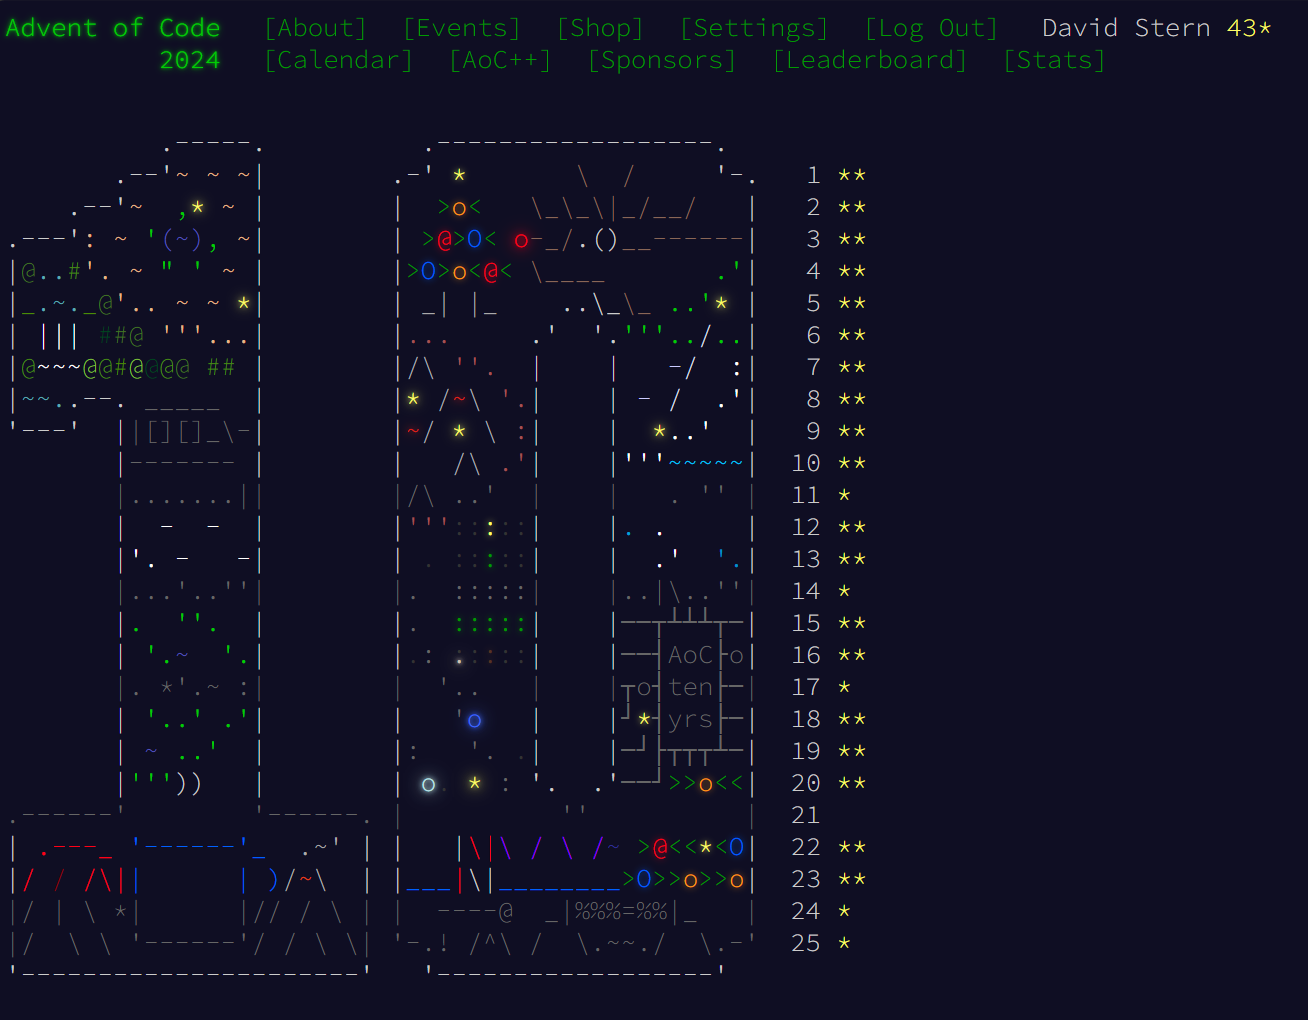
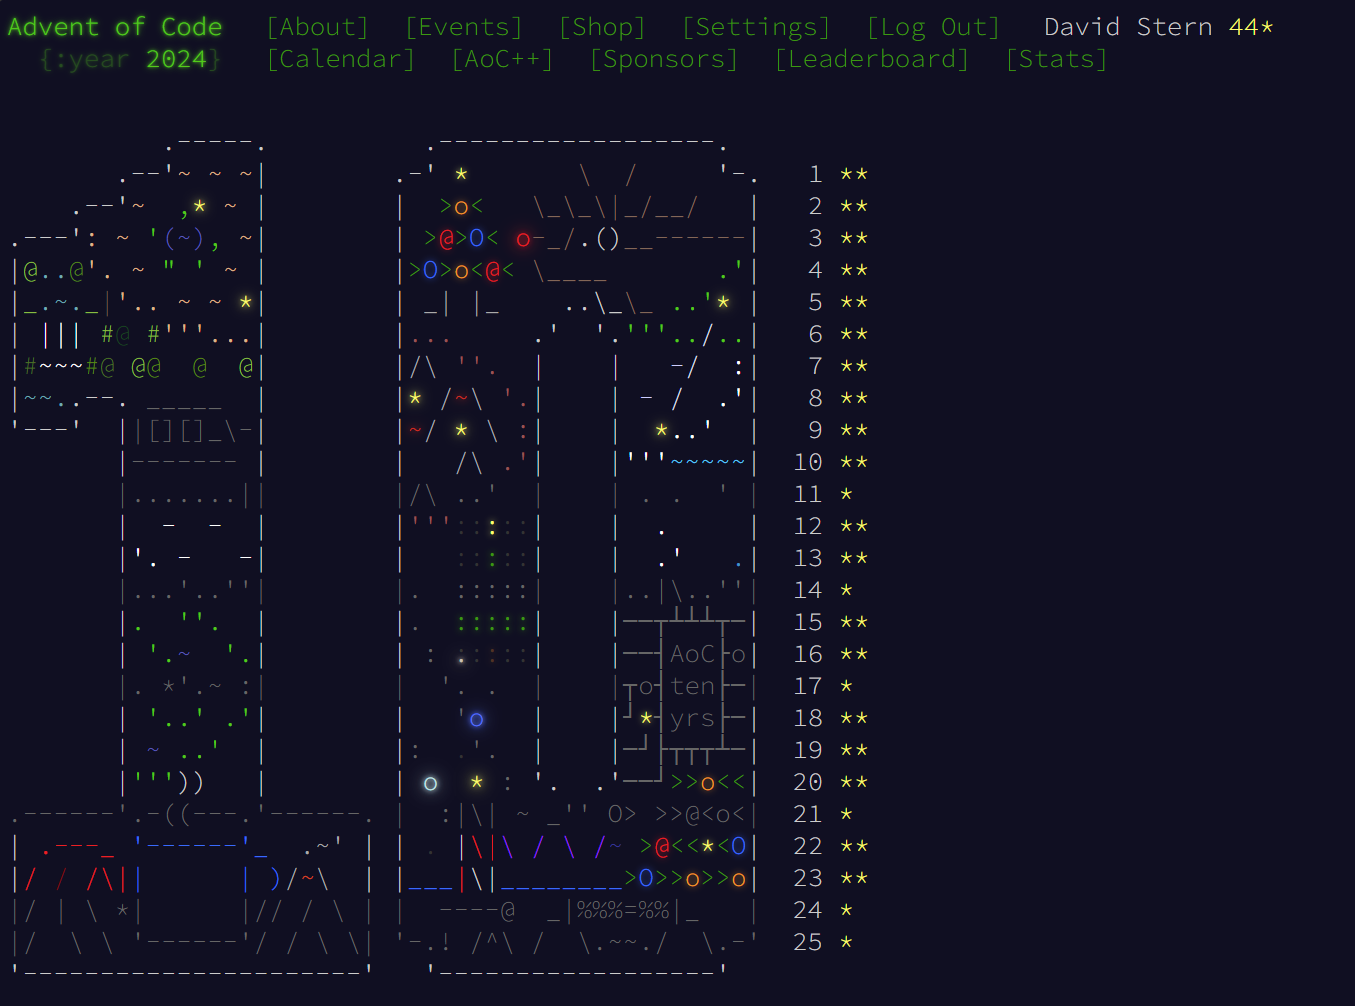
finished Day21 Part1

diff --git a/src/advent_solutions/day21.rs b/src/advent_solutions/day21.rs
@@ -15,10 +15,14 @@ const DIRECTIONAL_KEYPAD: [[char; 3]; 2] = [
     ['<', 'V', '>']
     ];
 
+///An Explorer collects possible paths to traverse
+/// between two points in either the `DIRECTIONAL_KEYPAD`
+/// or the `NUMERIC_KEYPAD`, ALWAYS IN TERMS of the DIRECTIONAL KEYPAD
 #[derive(Debug, Clone)]
 struct KeyPadExplorer {
     row: i64,
     col: i64,
+    ///The move_history in terms of directional key inputs
     move_history: Vec<char>,
     visited: HashSet<(i64, i64)>
 }
@@ -47,6 +51,9 @@ impl KeyPadExplorer {
         }
     }
 
+    ///To enforce the rule that empty spaces can never be traversed, 
+    /// returns `None` if either the current position if off the keypad
+    /// or in the forbidden empty space position.
     fn safe_read(&self, keypad: &[[char; 3]]) -> Option<char> {
         if let Some(row) = keypad.get(self.row as usize) {
             if let Some(symbol) = row.get(self.col as usize) {
@@ -72,7 +79,9 @@ impl KeyPadExplorer {
     }
 }
 
-fn translate_to_directional_inputs_from_start(starting_row: usize, starting_col: usize, keypad_in: &[[char; 3]]) -> HashMap<(char, char), Vec<String>> {
+///From the keypad position specified by `starting_row`, `starting_col`, collect all possible optimal paths between the start position
+/// and all other positions in the given `keypad_in`.
+fn translate_to_directional_inputs_from_start(starting_row: usize, starting_col: usize, keypad_in: &[[char; 3]]) -> HashMap<(char, char), Vec<String>> { 
     let mut decoded_moves: HashMap<(char, char), Vec<String>> = HashMap::new();
     let mut traversal_queue = VecDeque::new();
     let starting_explorer = KeyPadExplorer::new_empty(starting_row as i64, starting_col as i64);
@@ -83,7 +92,7 @@ fn translate_to_directional_inputs_from_start(starting_row: usize, starting_col:
             continue;
         }
         current_explorer.visit();
-        if let Some(current_symbol) = current_explorer.safe_read( keypad_in) {
+        if let Some(current_symbol) = current_explorer.safe_read(keypad_in) {
             decoded_moves.entry((starting_symbol, current_symbol)).or_default().push(current_explorer.move_history.clone().iter().collect::<String>());
             traversal_queue.extend(current_explorer.spawn_next());
 
@@ -92,6 +101,8 @@ fn translate_to_directional_inputs_from_start(starting_row: usize, starting_col:
     decoded_moves
 }
 
+///Find all possible optimal paths between any two valid positions
+/// on the passed in `keypad_in`, always in terms of the directional keypad inputs.
 fn translate_to_directional_inputs(keypad_in: &[[char; 3]]) -> HashMap<(char, char), Vec<String>> {
     let mut index = HashMap::new();
     for (row_number, row) in keypad_in.iter().enumerate() {
@@ -104,24 +115,31 @@ fn translate_to_directional_inputs(keypad_in: &[[char; 3]]) -> HashMap<(char, ch
     }
 
     for (_, move_history) in index.iter_mut() {
+        //As an optimization, we only consider possible paths that are of the length of the shortest
+        //possible path. 
         let shortest_path_length = move_history.iter().min_by_key(|path| path.len()).unwrap().len();
         move_history.retain(|path| path.len() == shortest_path_length);
         for move_option in move_history.iter_mut() {
+            //Append the A to each command because we need to press the button once we have reached
+            //the desired button
             move_option.push('A');
         }
     }
     index
 }
 
+///Represents a keypad input that must be translated into
+/// a directional keypad command (1 layer deeper in the robot control chain)
 #[derive(Debug)]
 enum KeyPadInput {
+    ///We are translating from a numerical keypad
     NumericalInput(String), 
+    ///We are translating from a directional keypad
     DirectionalInput(String), 
 }
 
 impl Display for KeyPadInput {
     fn fmt(&self, f: &mut std::fmt::Formatter<'_>) -> std::fmt::Result {
-
         let to_write = match self {
             Self::NumericalInput(to_decode) => to_decode,
             Self::DirectionalInput(to_decode) => to_decode
@@ -131,6 +149,8 @@ impl Display for KeyPadInput {
 }
 
 impl KeyPadInput {
+    ///Prepent the A symbol because all robots start pointing 
+    /// at the `A` button for either numerical or directional keypad.
     fn prepend_start(&mut self) {
         match self {
             Self::NumericalInput(to_decode) => to_decode.insert(0, 'A'),
@@ -138,10 +158,11 @@ impl KeyPadInput {
         }
     }
 
-    fn unbind(&self) -> String {
+    ///Expose the list of keypad inputs embedded in the `KeyPadInput`
+    fn unbind(&self) -> &str {
         match self {
-            Self::NumericalInput(to_decode) => to_decode.clone(),
-            Self::DirectionalInput(to_decode) => to_decode.clone()
+            Self::NumericalInput(to_decode) => to_decode,
+            Self::DirectionalInput(to_decode) => to_decode
         }
     }
 }
@@ -158,6 +179,9 @@ impl Decoder {
             numerical_keypad_index
         }
     }
+
+    ///Decode the passed in input, returning a list of all possible optimal directional
+    /// keypad inputs. 
     fn decode(&self, to_decode: &KeyPadInput) -> Vec<KeyPadInput> {
         let (decoder, to_decode)= match to_decode {
             KeyPadInput::DirectionalInput(to_decode) => (&self.directional_keypad_index, to_decode), 
@@ -180,11 +204,12 @@ impl Decoder {
                 panic!("Decoder did not contain a mapping from {current} => {next}")
             }
         }
-        collected_moves.into_iter().map(|possible_move| KeyPadInput::DirectionalInput(possible_move)).collect::<Vec<_>>()
+        collected_moves.into_iter().map(KeyPadInput::DirectionalInput).collect::<Vec<_>>()
     }
 }
 
 fn numerical_code_component(code_to_input: &str) -> i64{
+    //! Extract the numerical component of the code to input
     let mut valid_numbers = code_to_input.chars().filter_map(|char| {
         char.to_digit(10)
     }).collect::<Vec<_>>();
@@ -202,16 +227,26 @@ fn numerical_code_component(code_to_input: &str) -> i64{
 }
 
 fn decode_password(decoder: &Decoder, code_to_input: &str, decode_layers: usize) -> String {
+    //! Decode the passed in `code_to_input` (which is a numerical keypad task) into an optimal
+    //! set of directional keypad inputs. The `decode_layers` variable specifies how many layers of directional keypads
+    //! are in the way of the numerical keypad
     let mut codes_to_input = vec![KeyPadInput::NumericalInput(code_to_input.to_string())];
     for _ in 0..decode_layers {
+        let mut shortest_decoded_code = usize::MAX;
         let codes_to_decode = std::mem::take(&mut codes_to_input);
         for mut code_to_decode in codes_to_decode {
             code_to_decode.prepend_start();
-            let result = decoder.decode(&code_to_decode);
-            codes_to_input.extend(result);
+            let directional_keypad_options = decoder.decode(&code_to_decode);
+            for possible_path in directional_keypad_options.iter() {
+                shortest_decoded_code = shortest_decoded_code.min(possible_path.unbind().len());
+            }
+            codes_to_input.extend(directional_keypad_options);
         }
+        //As a performance optimization, remove any possible directional keypad inputs that are not 
+        //tied for the least number of inputs
+        codes_to_input.retain(|possible_key_pad_input| possible_key_pad_input.unbind().len() <= shortest_decoded_code);
     }
-    codes_to_input.iter().min_by_key(|key_pad_input| key_pad_input.unbind().len()).unwrap().unbind()
+    codes_to_input.iter().min_by_key(|key_pad_input| key_pad_input.unbind().len()).unwrap().unbind().to_string()
 
 } 
 

diff --git a/README.md b/README.md
@@ -1,5 +1,5 @@
 ## Progress Summary
-Just like last year, I am working through the 2024 [Advent of Code](https://adventofcode.com/2024) problems. I currently have `43` stars. Each day's solutions are found in the `/advent_solutions` folder under the day in question. As requested by the creator of the problems, I do not provide the input text, only the code solutions. To run a certain solution, ensure that the correct input text is placed in an `input.txt` file. Just like last year, solutions implement the following trait: 
+Just like last year, I am working through the 2024 [Advent of Code](https://adventofcode.com/2024) problems. I currently have `44` stars. Each day's solutions are found in the `/advent_solutions` folder under the day in question. As requested by the creator of the problems, I do not provide the input text, only the code solutions. To run a certain solution, ensure that the correct input text is placed in an `input.txt` file. Just like last year, solutions implement the following trait: 
 ```rust
 pub trait SolveAdvent {
     ///How to solve part1 of the days puzzle.
